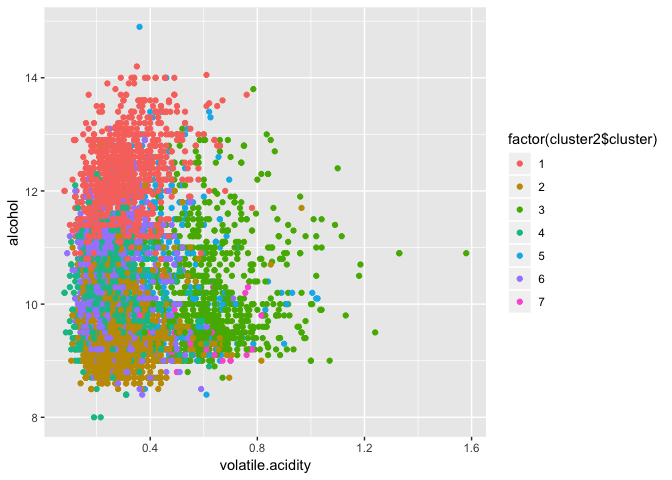
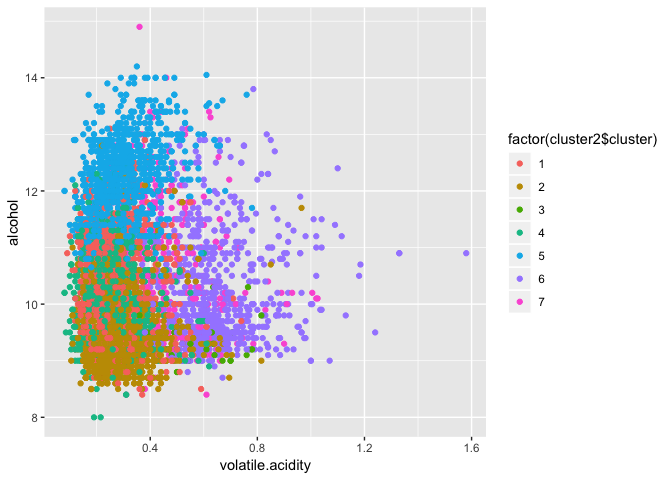
commit

diff --git a/Exercise_4.md b/Exercise_4.md
@@ -271,13 +271,13 @@ useful in clustering by score. Let’s take a look at the raw numbers.
 
     ##                 wine$quality
     ## cluster2$cluster   3   4   5   6   7   8   9
-    ##                1   4  20  77 527 451  96   4
-    ##                2   7  24 651 645 122  21   1
-    ##                3   6  64 476 343  43   2   0
-    ##                4   2  28 300 504 177  30   0
-    ##                5   4  15 192 260 140  14   0
-    ##                6   5  63 412 538 144  30   0
-    ##                7   2   2  30  19   2   0   0
+    ##                1   5  63 414 538 143  29   0
+    ##                2   7  24 653 646 122  21   1
+    ##                3   2   2  27  16   2   0   0
+    ##                4   2  28 297 501 179  30   0
+    ##                5   4  20  77 529 450  97   4
+    ##                6   6  64 472 343  43   2   0
+    ##                7   4  15 198 263 140  14   0
 
 The table shows that each of the 7 clusters basically has a random
 distribution of wines. The k-means technique is also not able to
@@ -372,31 +372,8 @@ subgroups to further their sales.
 
 ## Association rules for grocery purchases
 
-    ## Loading required package: Matrix
-
-    ## 
-    ## Attaching package: 'Matrix'
-
-    ## The following object is masked from 'package:tidyr':
-    ## 
-    ##     expand
-
-    ## 
-    ## Attaching package: 'arules'
-
-    ## The following object is masked from 'package:dplyr':
-    ## 
-    ##     recode
-
-    ## The following objects are masked from 'package:base':
-    ## 
-    ##     abbreviate, write
-
-    ## Loading required package: grid
-
-    ## Registered S3 method overwritten by 'seriation':
-    ##   method         from 
-    ##   reorder.hclust gclus
+We first start by finding a summary of grocery statistics. We see that
+“whole milk” and “other vegetables” top the list of transactions.
 
     ## transactions as itemMatrix in sparse format with
     ##  15296 rows (elements/itemsets/transactions) and
@@ -428,11 +405,8 @@ subgroups to further their sales.
     ## 2             2
     ## 3             3
 
-We computed 45 association rules, but narrowed down the rules into
-relevant subsets based on confidence, lift, and support. We created a
-subset to only include a lift measure of greater than 2, and a
-confidence measure greater than 0.3, and a subset with support greater
-than 0.035.
+We computed 45 association rules. We will narrow down the rules into
+relevant subsets based on confidence, lift, and support later.
 
     ## Apriori
     ## 
@@ -449,10 +423,10 @@ than 0.035.
     ## Absolute minimum support count: 152 
     ## 
     ## set item appearances ...[0 item(s)] done [0.00s].
-    ## set transactions ...[169 item(s), 15296 transaction(s)] done [0.02s].
+    ## set transactions ...[169 item(s), 15296 transaction(s)] done [0.01s].
     ## sorting and recoding items ... [71 item(s)] done [0.00s].
-    ## creating transaction tree ... done [0.03s].
-    ## checking subsets of size 1 2 3 done [0.00s].
+    ## creating transaction tree ... done [0.02s].
+    ## checking subsets of size 1 2 3 done [0.01s].
     ## writing ... [45 rule(s)] done [0.00s].
     ## creating S4 object  ... done [0.01s].
 
@@ -549,6 +523,10 @@ than 0.035.
     ## [44] 1.999064  625 
     ## [45] 1.999064  625
 
+We then created a subset to only include a lift measure of greater than
+2, a confidence measure greater than 0.3, and a subset with support
+greater than 0.035.
+
 The level of confidence was chosen based on interpretability since it
 was difficult to find any rules for confidence greater than 4.
 Confidence measures how often items in itemset Y appear in transactions
@@ -559,8 +537,10 @@ This could be useful to know in a retail context i.e. where and when to
 give promotions or ideas for product placement for milk given that you
 already are in the vegetable section. This is also reflected in the plot
 of association rules where “whole milk” and “other vegetables” are the
-two largest
-    clusters.
+two largest clusters.
+
+This is the subset for confidence \>
+    0.3.
 
     ##     lhs                   rhs                support    confidence
     ## [1] {curd}             => {whole milk}       0.01261768 0.3683206 
@@ -575,16 +555,14 @@ two largest
     ## [4] 1.964566 346  
     ## [5] 1.999064 625
 
-    ## To reduce overplotting, jitter is added! Use jitter = 0 to prevent jitter.
-
-![](Exercise_4_files/figure-gfm/unnamed-chunk-36-1.png)<!-- -->
-
 Support measures the frequency of an itemset within transactions. The
 choice of a low level of support was driven by the fact that there
 weren’t too many different grocery items within the dataset. Again, a
 strong association between “whole milk” and “other vegetables,” perhaps
-since these are generally staple
-    items.
+since these are generally staple items.
+
+This is the subset for support \>
+    0.035.
 
     ##     lhs                   rhs                support    confidence
     ## [1] {}                 => {soda}             0.11212082 0.1121208 
@@ -614,8 +592,10 @@ grouped together in the top right corner. Lift might be the most
 informative measure since it measures the conditional probability of
 purchasing itemset X given that you already purchased itemset Y and
 therefore takes into account statistical dependence, whereas confidence
-and support do
-    not.
+and support do not.
+
+This is the subset for lift \>
+    2.
 
     ##      lhs                   rhs                support    confidence
     ## [1]  {curd}             => {whole milk}       0.01261768 0.3683206 
@@ -640,8 +620,18 @@ and support do
     ## [9]  2.909216 388  
     ## [10] 2.909216 388
 
-When combining all three measures, we found the following 10 “best”
-associations.
+We combine these three measures to create a scatterplot and a two-key
+plot.
+
+    ## To reduce overplotting, jitter is added! Use jitter = 0 to prevent jitter.
+
+![](Exercise_4_files/figure-gfm/unnamed-chunk-39-1.png)<!-- -->
+
+    ## To reduce overplotting, jitter is added! Use jitter = 0 to prevent jitter.
+
+![](Exercise_4_files/figure-gfm/unnamed-chunk-39-2.png)<!-- -->
+
+We then find the following 10 “best” associations.
 
     ## set of 45 rules
     ## 
@@ -665,6 +655,9 @@ associations.
     ##         data ntransactions support confidence
     ##  grocertrans         15296    0.01        0.1
 
-![](Exercise_4_files/figure-gfm/unnamed-chunk-42-1.png)<!-- -->
+We visualize these associations through a network graph. The larger the
+label, the more frequent the transaction. “Whole milk,” “other
+vegetables,” “root vegetables,” and “soda” seem to tie together most
+transctions.
 
-![](Exercise_4_files/figure-gfm/unnamed-chunk-43-1.png)<!-- -->
+![](Exercise_4_files/figure-gfm/unnamed-chunk-44-1.png)<!-- -->
